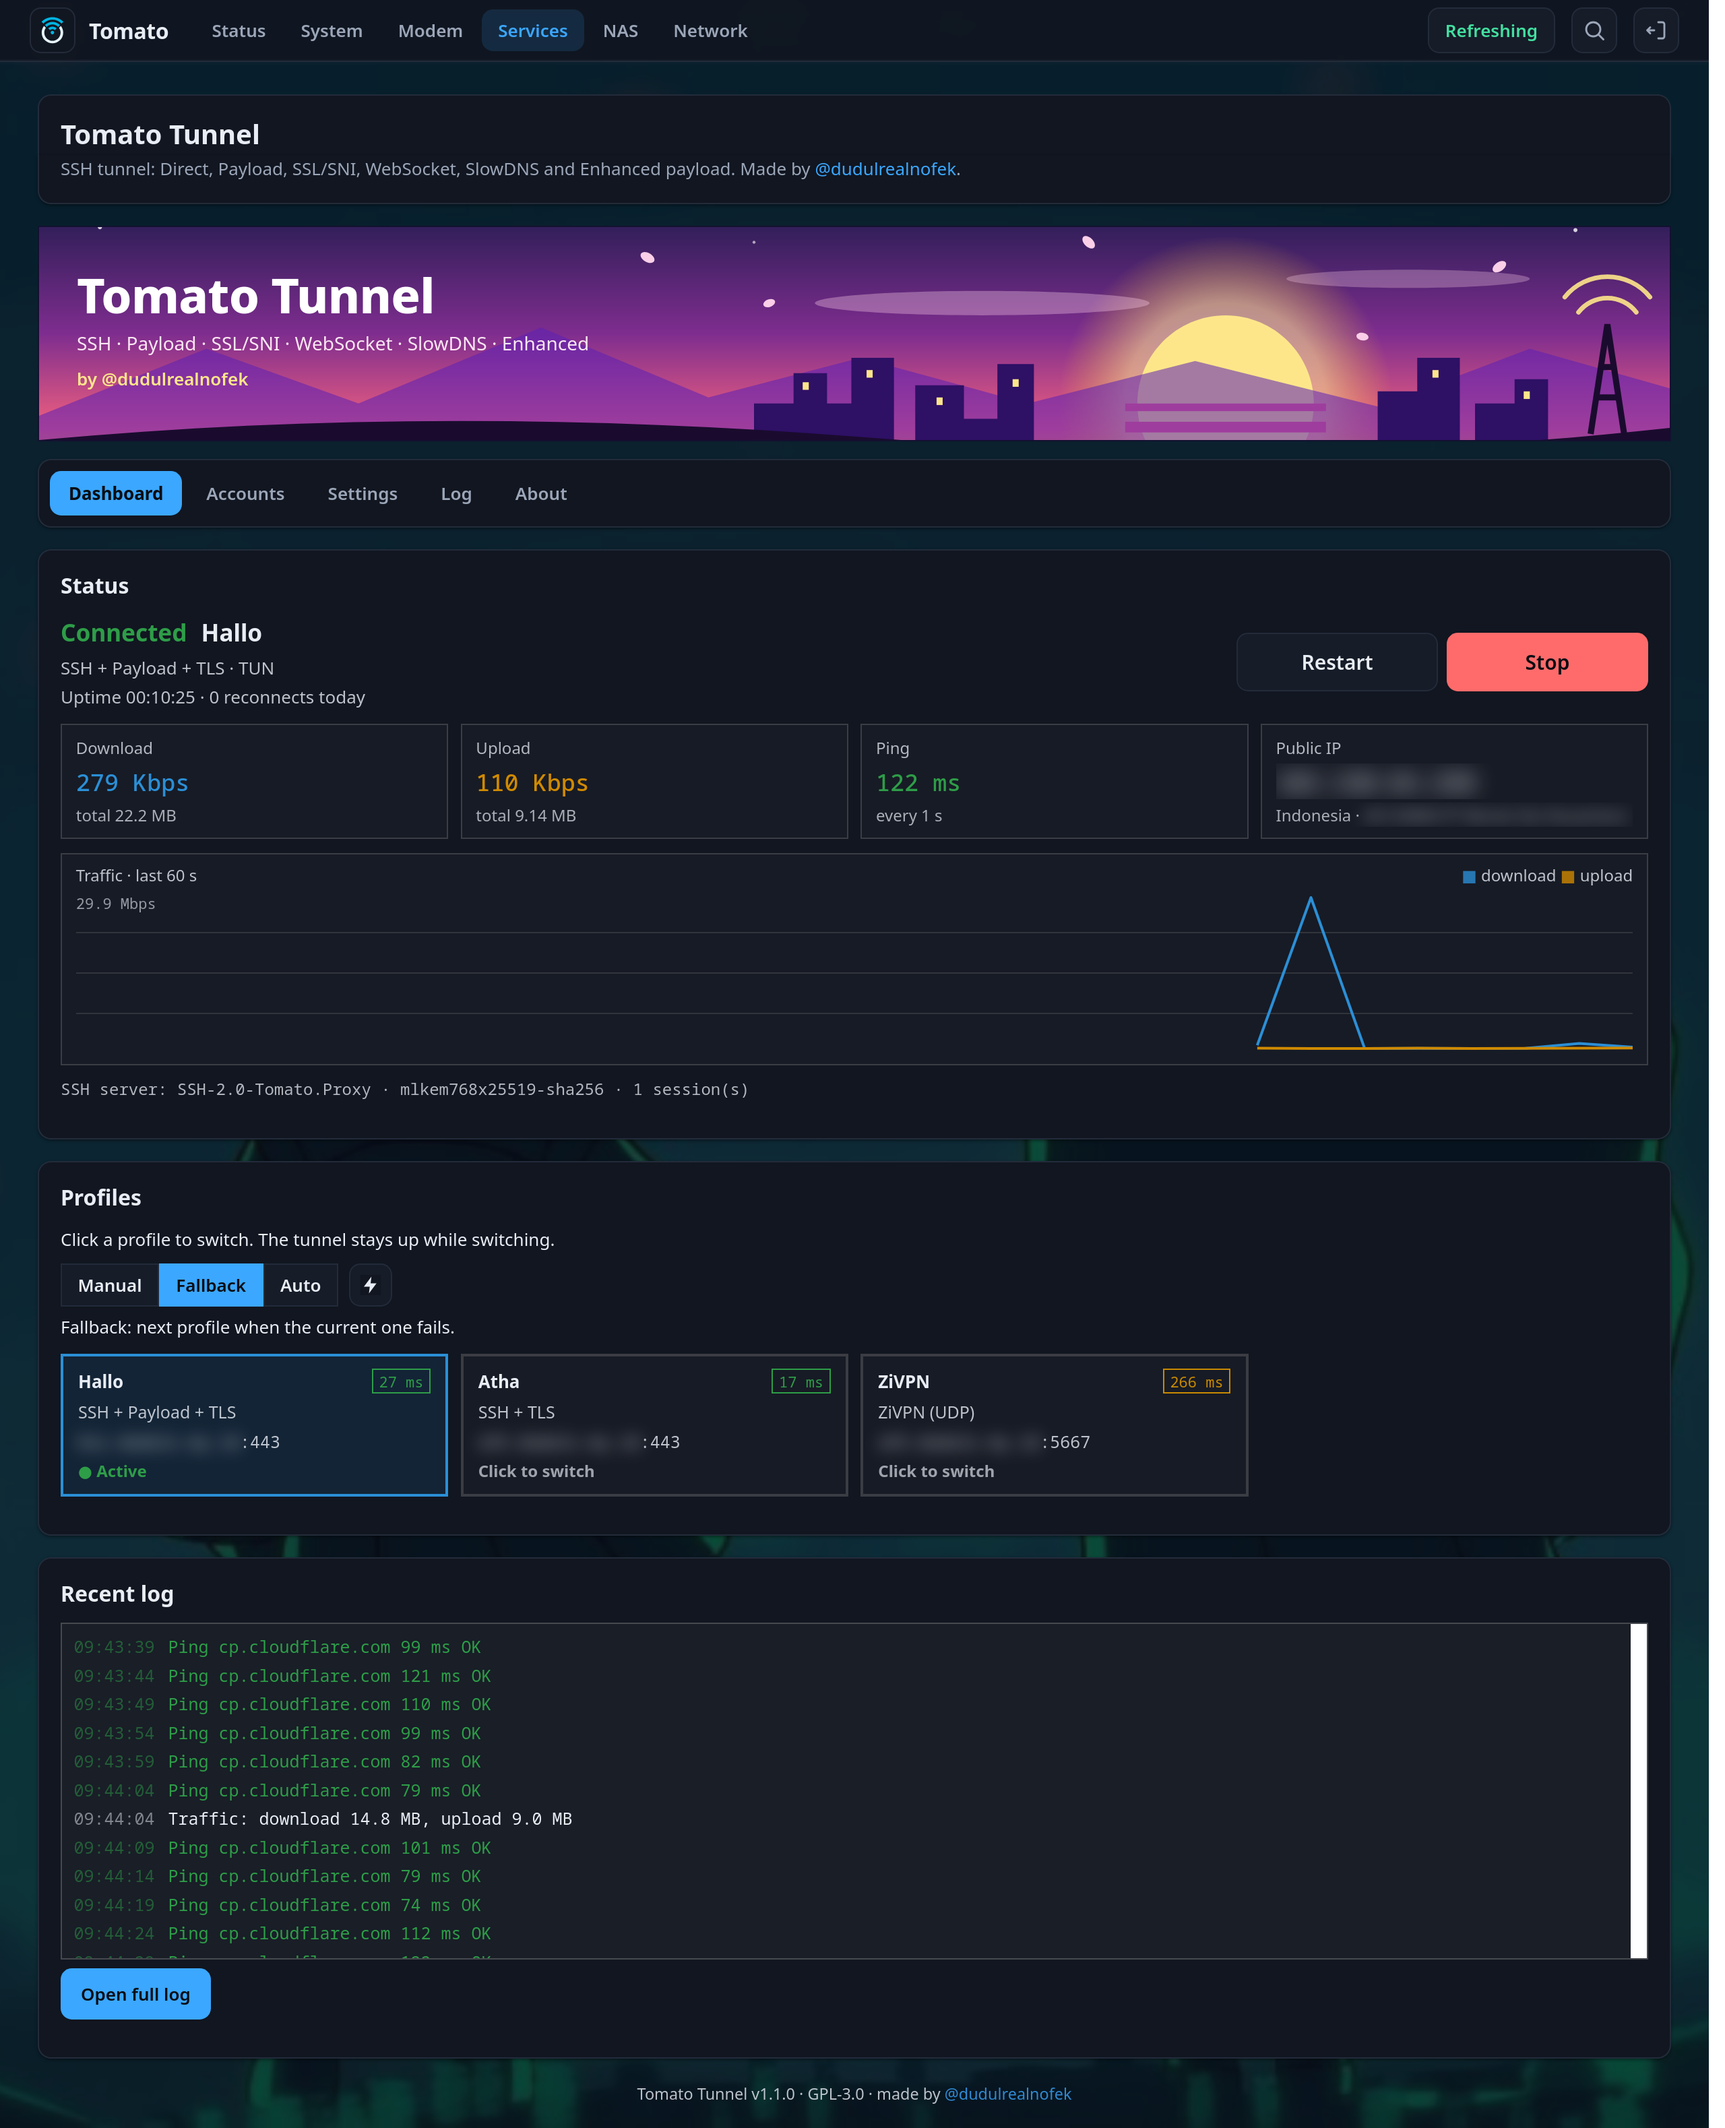
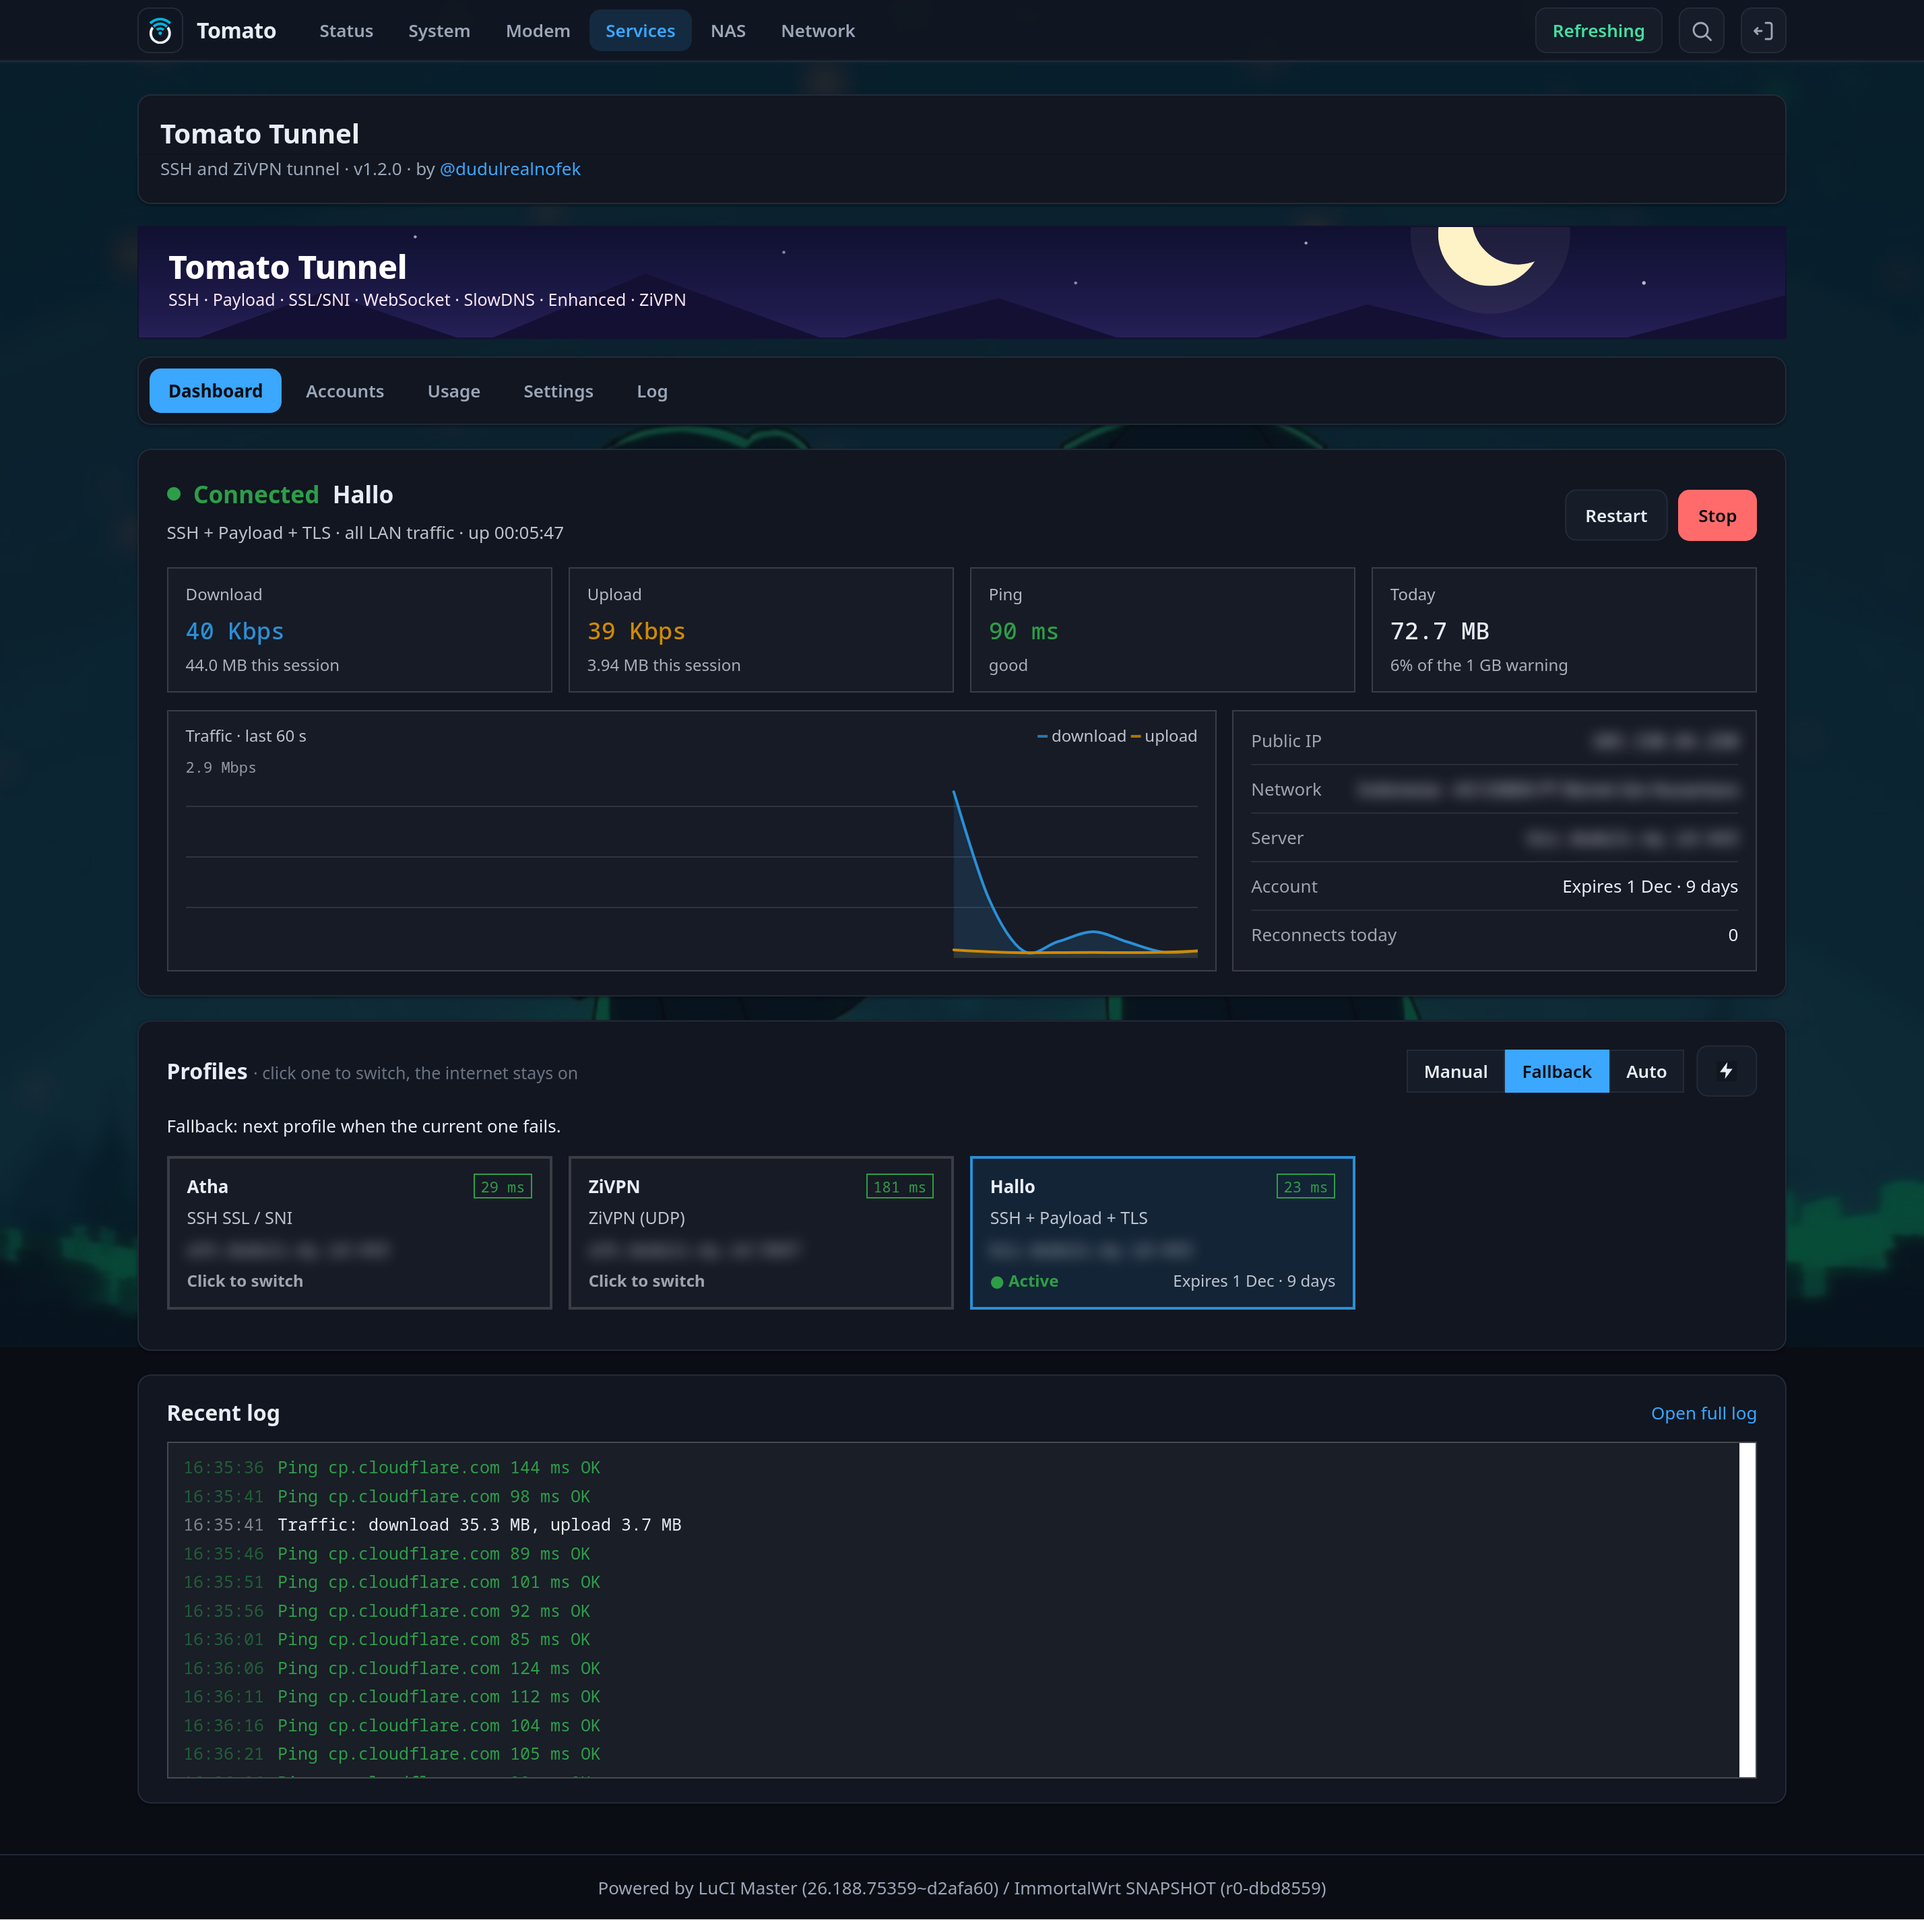
README: new dashboard screenshot (v1.2.0, Footstrap)

diff --git a/README.md b/README.md
@@ -8,7 +8,7 @@ ZiVPN works like the ZiVPN app: host, port and password only.
 
 ![Dashboard](docs/screenshots/dashboard.png)
 
-Dashboard of v1.1.0 on ImmortalWrt with the Argon theme. Public IP, ISP and server domains are blurred.
+Dashboard of v1.2.0 on ImmortalWrt with the Footstrap theme. Public IP, ISP and server domains are blurred.
 
 ## Connection types
 
